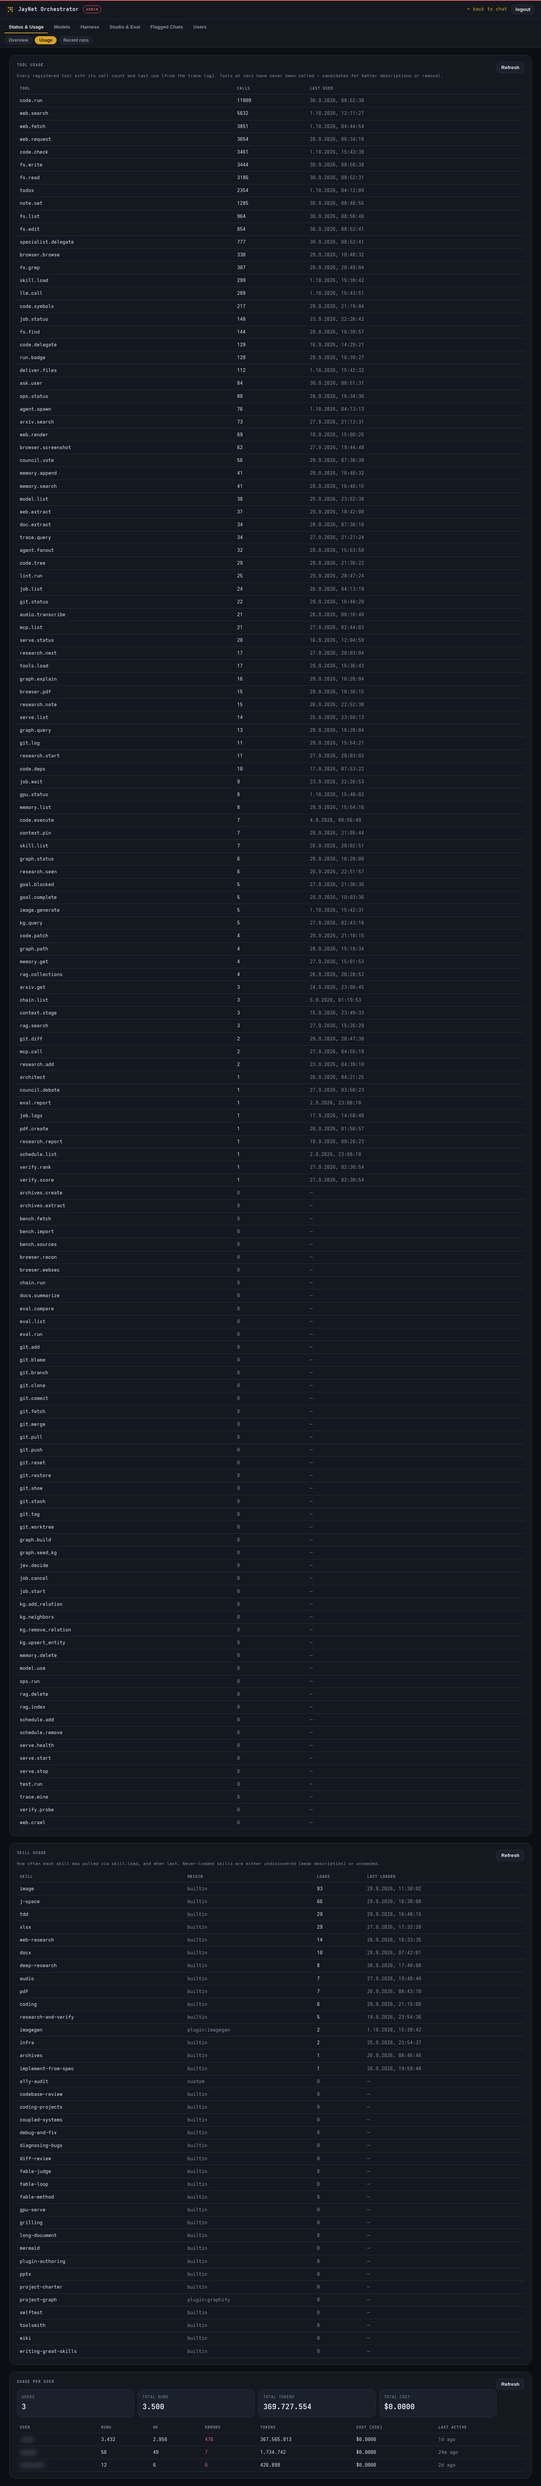
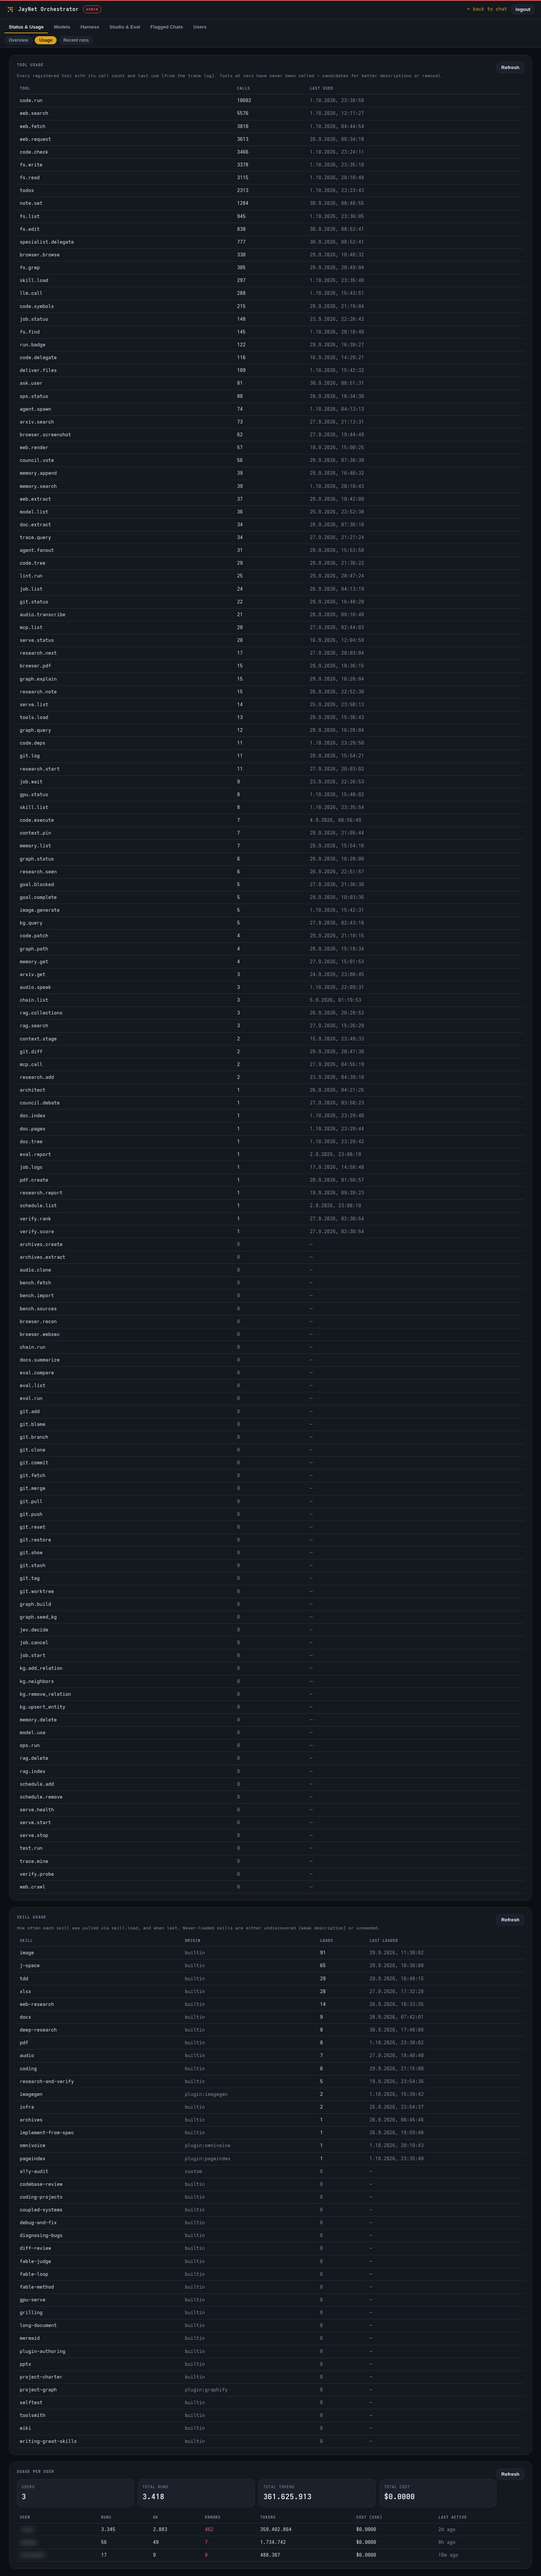
v1.17.0 — omnivoice + pageindex plugins, read-aloud chain
Version bump, changelog section, release notes (docs/releases/v1.17.0.md),
README status line, refreshed admin screenshots (the plugins tab now shows
all eight shipped plugins), stale plugin-count fix in the learning guide,
and plugin.yaml descriptions aligned with the staged-download artifact
lifecycle.

diff --git a/runtime/__init__.py b/runtime/__init__.py
@@ -1,3 +1,3 @@
 """JayNet runtime package."""
 
-__version__ = "1.16.1"
+__version__ = "1.17.0"

diff --git a/docs/releases/v1.17.0.md b/docs/releases/v1.17.0.md
@@ -1,0 +1,65 @@
+# v1.17.0 — 2026-10-01
+
+Minor release: JayNet learns to speak and to navigate long documents.
+Two new plugins — **omnivoice** (local text-to-speech with voice design
+and cloning) and **pageindex** (vectorless, reasoning-based retrieval
+over long PDFs) — plus `read-aloud`, the first chain that switches
+models mid-pipeline, and a lifecycle fix that stops generated artifacts
+from piling up on disk.
+
+## omnivoice — local text-to-speech
+
+`audio.speak` turns text into a WAV on your own GPU — 600+ languages,
+voice design via natural-language `instructions` ("afraid, whispered,
+hurried"), non-verbal symbols like `[laughter]` — and `audio.clone`
+registers a cloned voice from a reference WAV + exact transcript. The
+backend is [OmniVoice](https://huggingface.co/k2-fsa/OmniVoice) on
+[omnivoice.cpp](https://github.com/ServeurpersoCom/omnivoice.cpp)'s
+OpenAI-compatible `tts-server` (llama.cpp-style GGUF infra; the helper
+repo builds it with `./build_tools.sh omnivoice rocm`). Same shape as
+imagegen: lazy start, keep-warm reaper, WAV staged as a download and
+mirrored into the run workspace, shutdown hook. No slot hibernation —
+the Q8_0 pair is ~1 GB and fits next to brain + specialist.
+
+- **GGUF auto-discovery:** `plugins.omnivoice.model`/`codec` left empty
+  pick up the first `omnivoice-base-*.gguf` / `omnivoice-tokenizer-*.gguf`
+  in the standard model dir — a quant swap is a file drop, not a config
+  edit.
+
+## pageindex — vectorless tree index for long PDFs
+
+Wraps the [pageindex](https://pypi.org/project/pageindex/) SDK (MIT):
+`doc.index` builds a persistent hierarchical tree index of a long
+document with a local model (through the JayNet LiteLLM proxy — nothing
+leaves the box), `doc.tree` shows section titles/summaries/page ranges,
+`doc.pages` reads exact pages. The brain reasons its way down the tree
+instead of retrieving similarity chunks — for reports, contracts and
+manuals too long to read inline, and repeat questions over the same
+document. `doc.extract` and the long-document skill stay right for
+short docs. Verified live against a real index run (SDK shapes pinned:
+`page_index` page keys, `pageNum` meta lookup).
+
+## read-aloud — the first model-switching chain
+
+`chains/read-aloud.yaml`: step 1 loads the creative-writing preset into
+the specialist slot via `model.use` (default `hemmingway`, graceful
+degradation when missing), step 2 splits the text into mood-tagged
+chunks on that model — per-chunk voice instructions are the only way
+emotion can *shift* mid-text — step 3 voices each chunk with
+`audio.speak` and stitches the WAVs into one `reading.wav`. A new
+static gate validates every shipped chain in CI.
+
+## Fixes
+
+- **imagegen/omnivoice: server-side artifacts no longer pile up.** The
+  backend's own copy in `<data>/images/` / `<data>/audio/` was redundant
+  once the download bundle was staged but stayed on disk forever. Both
+  plugins drop the original on successful staging and keep it only when
+  staging failed.
+- **docs: doubled tab-path sweep.** The v1.16.1 tab-rename pass left
+  "Admin → Studio & Eval → Studio & Eval → …" in 9 markdown files.
+
+Upgrade notes: `pip install pageindex` into the venv if you want the
+pageindex plugin; omnivoice needs the `tts-server` build + ~1 GB GGUFs
+(plugins/omnivoice/README.md). Both plugins ship disabled — enable in
+Admin → Harness → Plugins.

diff --git a/LEARNING_GUIDE.md b/LEARNING_GUIDE.md
@@ -378,7 +378,9 @@ reference implementation and sets the bar: it ships staleness semantics
 query it. Benchlab is another — benchmark harnesses (Terminal-Bench,
 GAIA) packaged the same way — and its existence matters more than its
 content: a second plugin proves the interface right in a way one never can.
-(Four builtins ship now — graphify, benchlab, h5i, jev; §3.18 covers what
+(Eight builtins ship now — graphify, benchlab, h5i, jev, clm, imagegen,
+omnivoice for local text-to-speech, pageindex for vectorless long-PDF
+retrieval; §3.18 covers what
 jev's measured failure taught about routing.)
 The design lesson mirrors the MCP note below: adopt structure when a
 second real consumer earns it.

diff --git a/README.md b/README.md
@@ -31,7 +31,7 @@ on my side made it impossible not to use the power of several large LLMs to deve
 ideas further. Everything is regularly bug and security audited and I run it on my local hardware
 and fix things as they roll — it has been my daily driver for months.
 
-Status: **v1.16.1** (semver, [changelog](CHANGELOG.md)) — daily-driven and
+Status: **v1.17.0** (semver, [changelog](CHANGELOG.md)) — daily-driven and
 feature-rich; most quirks were found by using it.
 License: MIT ([THIRD_PARTY_NOTICES.md](THIRD_PARTY_NOTICES.md) covers the two
 vendored JS libraries and the adapted skills).

diff --git a/CHANGELOG.md b/CHANGELOG.md
@@ -5,7 +5,7 @@ contract lives in `docs/api.md`, upgrade procedure in `docs/upgrading.md`.
 Every tagged version gets a release file in `docs/releases/vX.Y.Z.md`
 (cut from this changelog — don't let it drift again).
 
-## Unreleased
+## 1.17.0 — 2026-10-01
 
 - **pageindex plugin 0.1.0 — vectorless tree index for long PDFs.** Wraps
   the [pageindex](https://pypi.org/project/pageindex/) pip SDK (MIT):
